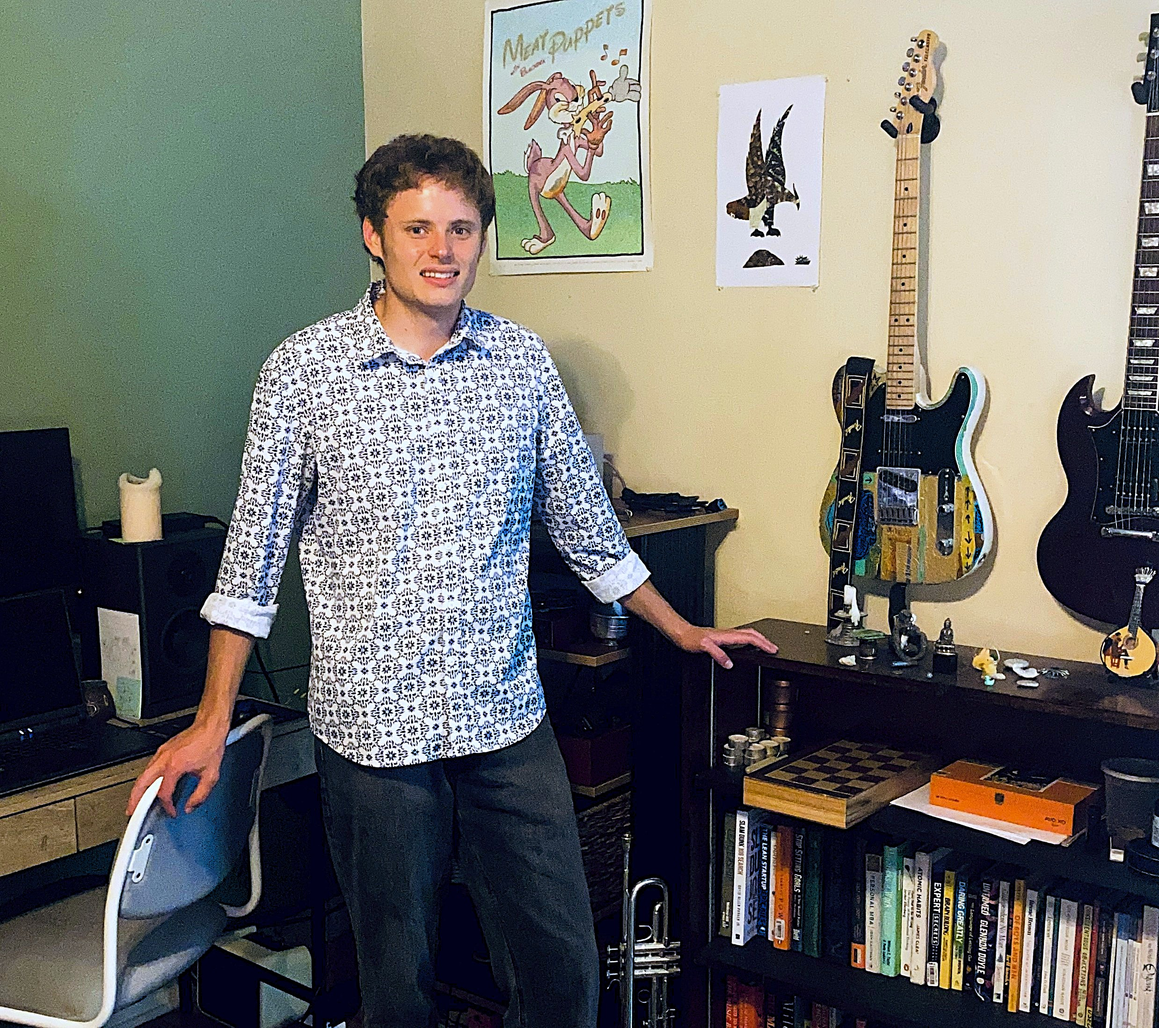
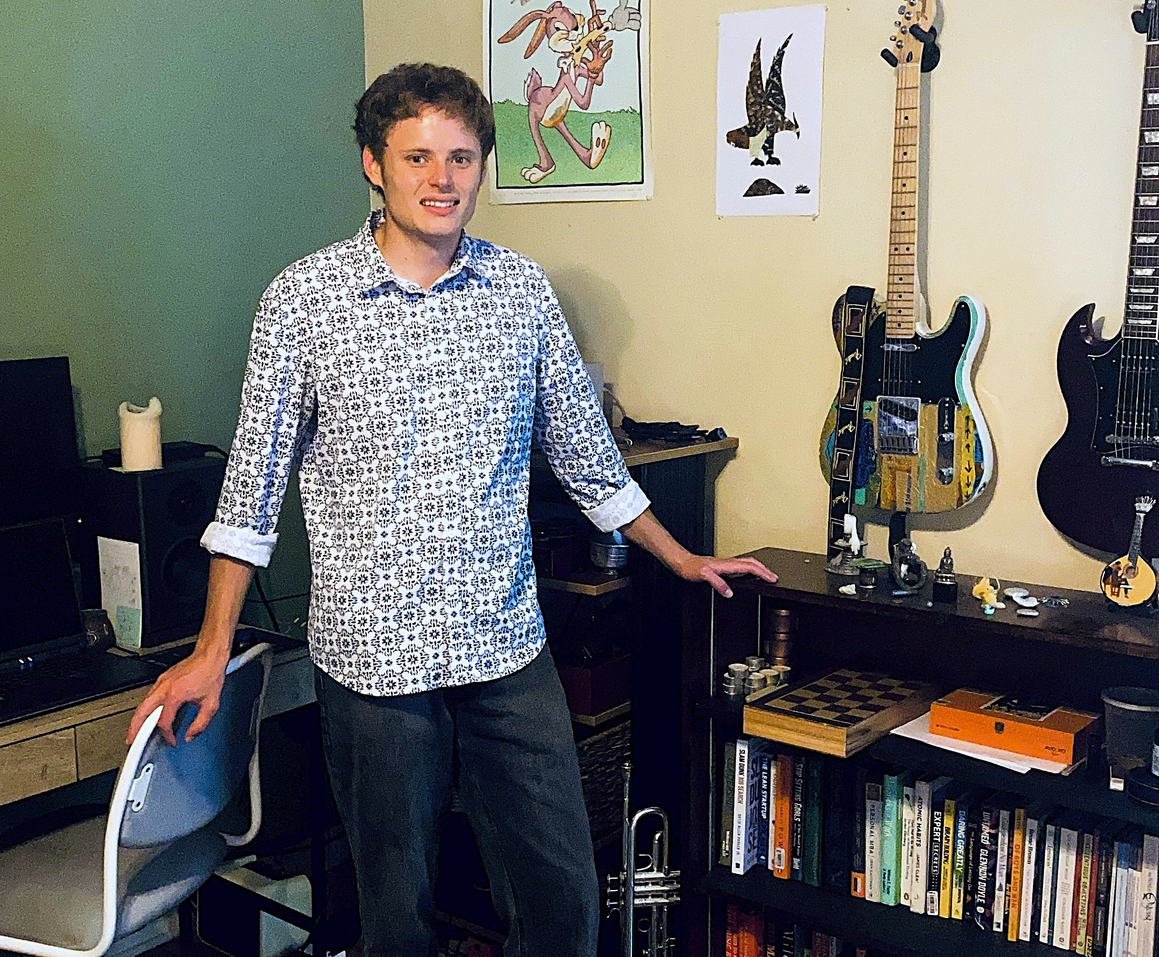
updated photo, redesigned music production page

diff --git a/music.html b/music.html
@@ -3,107 +3,172 @@
 <head>
   <meta charset="UTF-8" />
   <meta name="viewport" content="width=device-width, initial-scale=1.0"/>
+
   <title>Weisburg Productions</title>
+
+  <link rel="preconnect" href="https://fonts.googleapis.com">
+  <link rel="preconnect" href="https://fonts.gstatic.com" crossorigin>
+
+  <link href="https://fonts.googleapis.com/css2?family=Cormorant+Garamond:wght@400;500;600;700&family=Inter:wght@300;400;500;600&display=swap" rel="stylesheet">
+
   <link rel="stylesheet" href="style.css">
 </head>
+
 <body class="music-body">
 
+  <!-- Navigation -->
+
+  <nav class="nav music-nav">
+    <a href="index.html">Home</a>
+    <a href="professional.html">Professional</a>
+    <a href="music.html">Music</a>
+    <a href="other.html">Other Interests</a>
+  </nav>
+
   <!-- Logo -->
-  <img src="images/wp_logo.png" alt="Weisburg Productions Logo" class="logo">
 
-  <!-- Left checkerboard -->
+  <img
+    src="images/wp_logo.png"
+    alt="Weisburg Productions Logo"
+    class="logo"
+  >
+
+  <!-- Checkerboard -->
+
   <div class="checkerboard left"></div>
-
-  <!-- Right checkerboard -->
   <div class="checkerboard right"></div>
 
-  <!-- Main content -->
   <div class="content">
+
     <!-- Hero -->
-    <section class="hero">
+
+    <section class="hero music-hero">
+
       <h1>Weisburg Productions</h1>
-      <p>music & entertainment production</p>
-      <a href="#music" class="button">Explore Music</a>
-      <br />
-    </section>
-    
-    <!-- About -->
-    <section class="about">
-      <h2>About</h2>
-      <p>
-        Weisburg Productions blends professional craftsmanship with community
-        passion. Built on integrity, authenticity, and care to create music
-        that inspires and connects.
+
+      <p class="music-tagline">
+        Thoughtful music production, licensing,
+        and creative collaboration.
       </p>
+
+      <a href="#music" class="cta music-cta">
+        Explore Catalog
+      </a>
+
     </section>
 
-    <!-- Music Catalog -->
+    <!-- Philosophy -->
+
+    <section class="music-intro">
+
+      <h2>The Approach</h2>
+
+      <p>
+        Great productions begin with understanding.
+        Every artist, project, and story has its own
+        identity. The goal isn't to impose a sound—
+        it's to uncover one.
+      </p>
+
+    </section>
+
+    <!-- Catalog -->
+
     <section id="music">
-      <h2>Music Catalog</h2>
+
+      <h2 class="section-title">Featured Tracks</h2>
+
       <div class="catalog">
 
         <div class="track">
-          <h3>The Gleamers - How it Goes</h3>
-          <p>Moody, Grungy, Uplifting, Rock</p>
-          <iframe data-testid="embed-iframe"
-            style="border-radius:12px"
+          <h3>The Gleamers — How It Goes</h3>
+          <p>Moody • Grungy • Uplifting • Rock</p>
+
+          <iframe
             src="https://open.spotify.com/embed/track/0VOdfmSPNpAIUBLl9RnPSe"
             width="100%"
             height="152"
-            frameBorder="0"
+            frameborder="0"
             allow="autoplay; clipboard-write; encrypted-media; fullscreen; picture-in-picture"
             loading="lazy">
           </iframe>
         </div>
 
         <div class="track">
-          <h3>Needle Found - Please</h3>
-          <p>Mournful, Melancholic, Emotional</p>
-          <iframe data-testid="embed-iframe"
-            style="border-radius:12px"
+          <h3>Needle Found — Please</h3>
+          <p>Mournful • Emotional • Melancholic</p>
+
+          <iframe
             src="https://open.spotify.com/embed/track/0eNEx7u2gYQuW2nadHQ2ez"
             width="100%"
             height="152"
-            frameBorder="0"
+            frameborder="0"
             allow="autoplay; clipboard-write; encrypted-media; fullscreen; picture-in-picture"
             loading="lazy">
           </iframe>
         </div>
 
         <div class="track">
-          <h3>SEMPAR - Runner Up</h3>
-          <p>Upbeat, Energetic, Catchy, Indie Rock</p>
-          <iframe data-testid="embed-iframe"
-            style="border-radius:12px"
+          <h3>SEMPAR — Runner Up</h3>
+          <p>Upbeat • Catchy • Energetic • Indie Rock</p>
+
+          <iframe
             src="https://open.spotify.com/embed/track/07Uq9UKL8jb0PpkLpsJMC8"
             width="100%"
             height="152"
-            frameBorder="0"
+            frameborder="0"
             allow="autoplay; clipboard-write; encrypted-media; fullscreen; picture-in-picture"
             loading="lazy">
           </iframe>
         </div>
 
       </div>
+
+    </section>
+
+    <!-- Process -->
+
+    <section class="music-intro">
+
+      <h2>Production Philosophy</h2>
+
+      <p>
+        Music sits at the intersection of craft and discovery.
+        The best projects emerge from trust, experimentation,
+        and a commitment to serving the song first.
+      </p>
+
     </section>
 
     <!-- Contact -->
+
     <section class="contact">
-      <h2>Let’s Craft a Common Vision</h2>
-      <p>Reach out to collaborate or license music.</p>
-      <p>Email: connorweisburg@gmail.com</p>
+
+      <h2>Let's Build Something Meaningful</h2>
+
       <p>
-        <a 
+        Reach out regarding production,
+        licensing opportunities, or collaboration.
+      </p>
+
+      <p>
+        <strong>Email:</strong>
+        connorweisburg@gmail.com
+      </p>
+
+      <p>
+        <a
           href="https://cerulean-iridium-a80.notion.site/2fc67645e3e680139d79cd0fb5358be4?v=2fc67645e3e680439a90000c1cb1187b&pvs=74"
           target="_blank"
-          rel="noopener noreferrer"
-        >Click</a>
-        to see the production workflow and licensing details.
+          rel="noopener noreferrer">
+          View Production Workflow →
+        </a>
       </p>
+
     </section>
+
   </div>
 
-  <!-- Link to checkerboard JS -->
   <script src="checkerboard.js"></script>
 
 </body>

diff --git a/style.css b/style.css
@@ -288,6 +288,58 @@ body.music-body {
   color: #111;
 }
 
+
+.music-nav {
+  background: rgba(255,255,255,.85);
+  border-bottom: 1px solid rgba(0,0,0,.08);
+}
+
+.music-nav a {
+  color: #333;
+}
+
+.music-nav a:hover {
+  color: var(--brass);
+}
+
+.music-hero {
+  padding-top: 20px;
+}
+
+.music-hero h1 {
+  font-family: "Cormorant Garamond", serif;
+  font-size: 4rem;
+}
+
+.music-tagline {
+  max-width: 700px;
+  margin: 0 auto;
+  font-size: 1.15rem;
+}
+
+.music-cta {
+  margin-top: 24px;
+}
+
+.music-intro {
+  max-width: 750px;
+  margin: 60px auto;
+  text-align: center;
+}
+
+.section-title {
+  text-align: center;
+  margin-bottom: 40px;
+}
+
+.track {
+  transition: .25s ease;
+}
+
+.track:hover {
+  transform: translateY(-4px);
+  box-shadow: 0 8px 25px rgba(0,0,0,.08);
+}
 /* logo */
 
 .logo {
